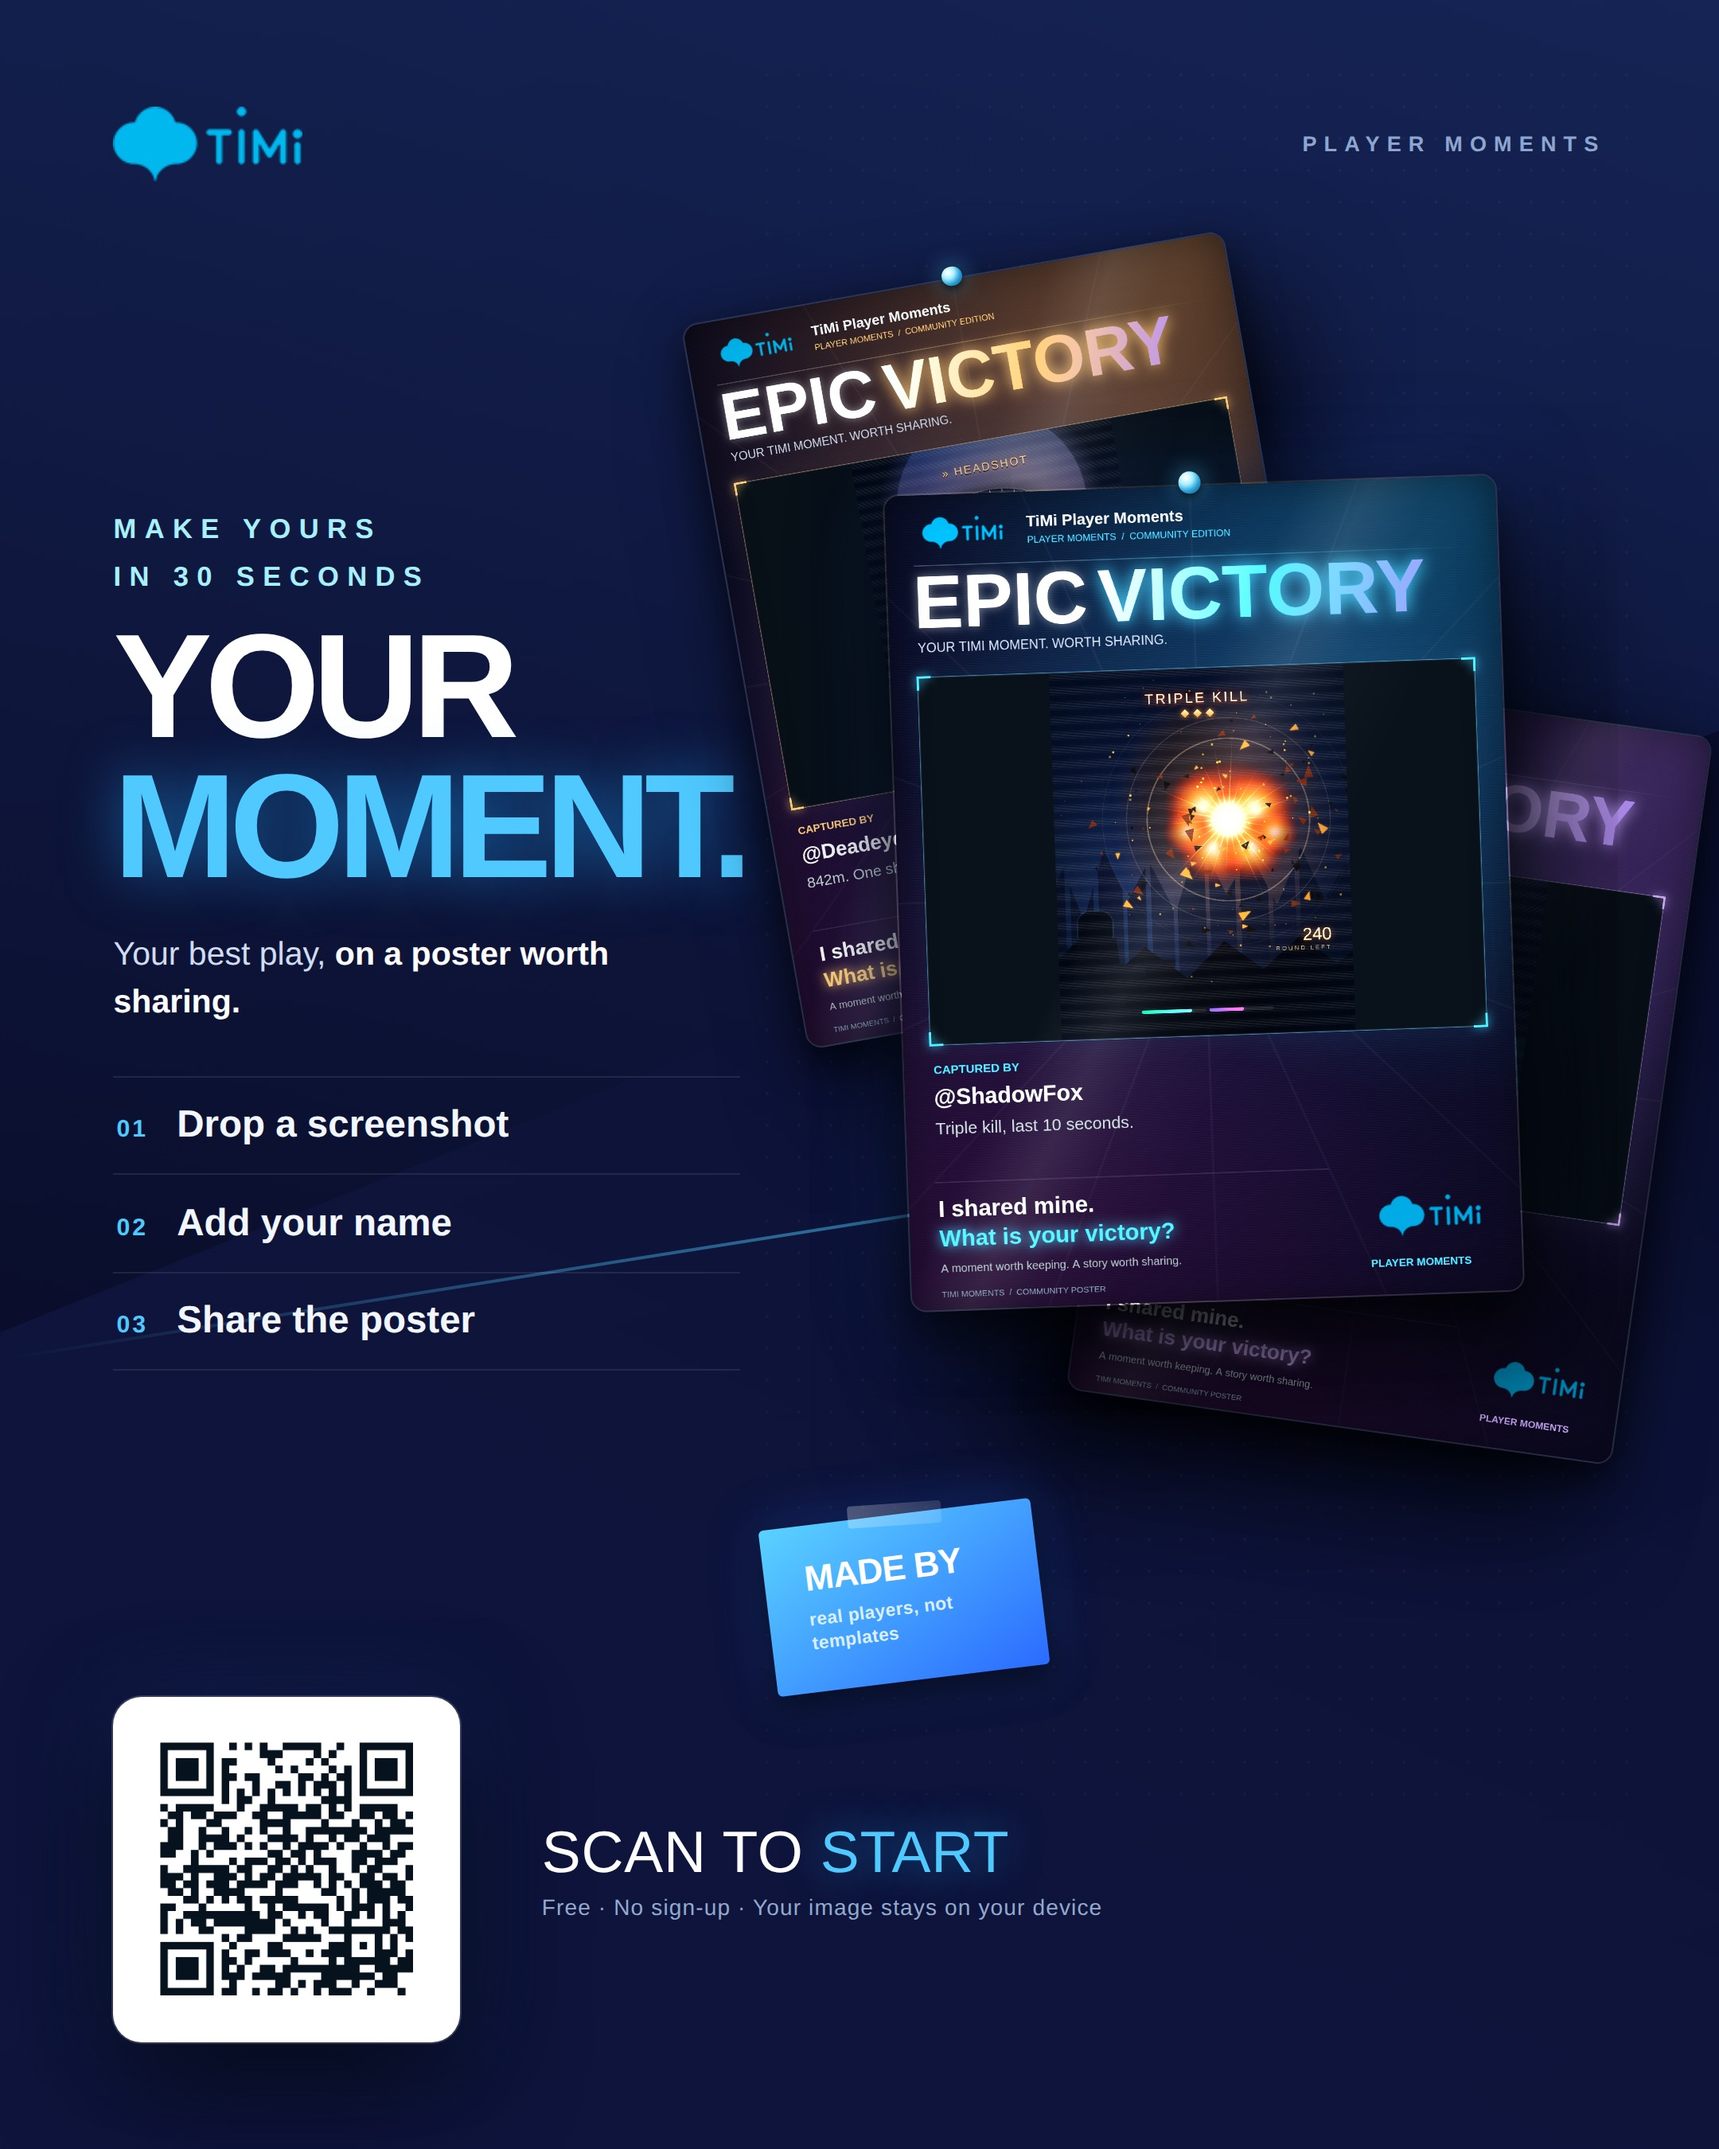
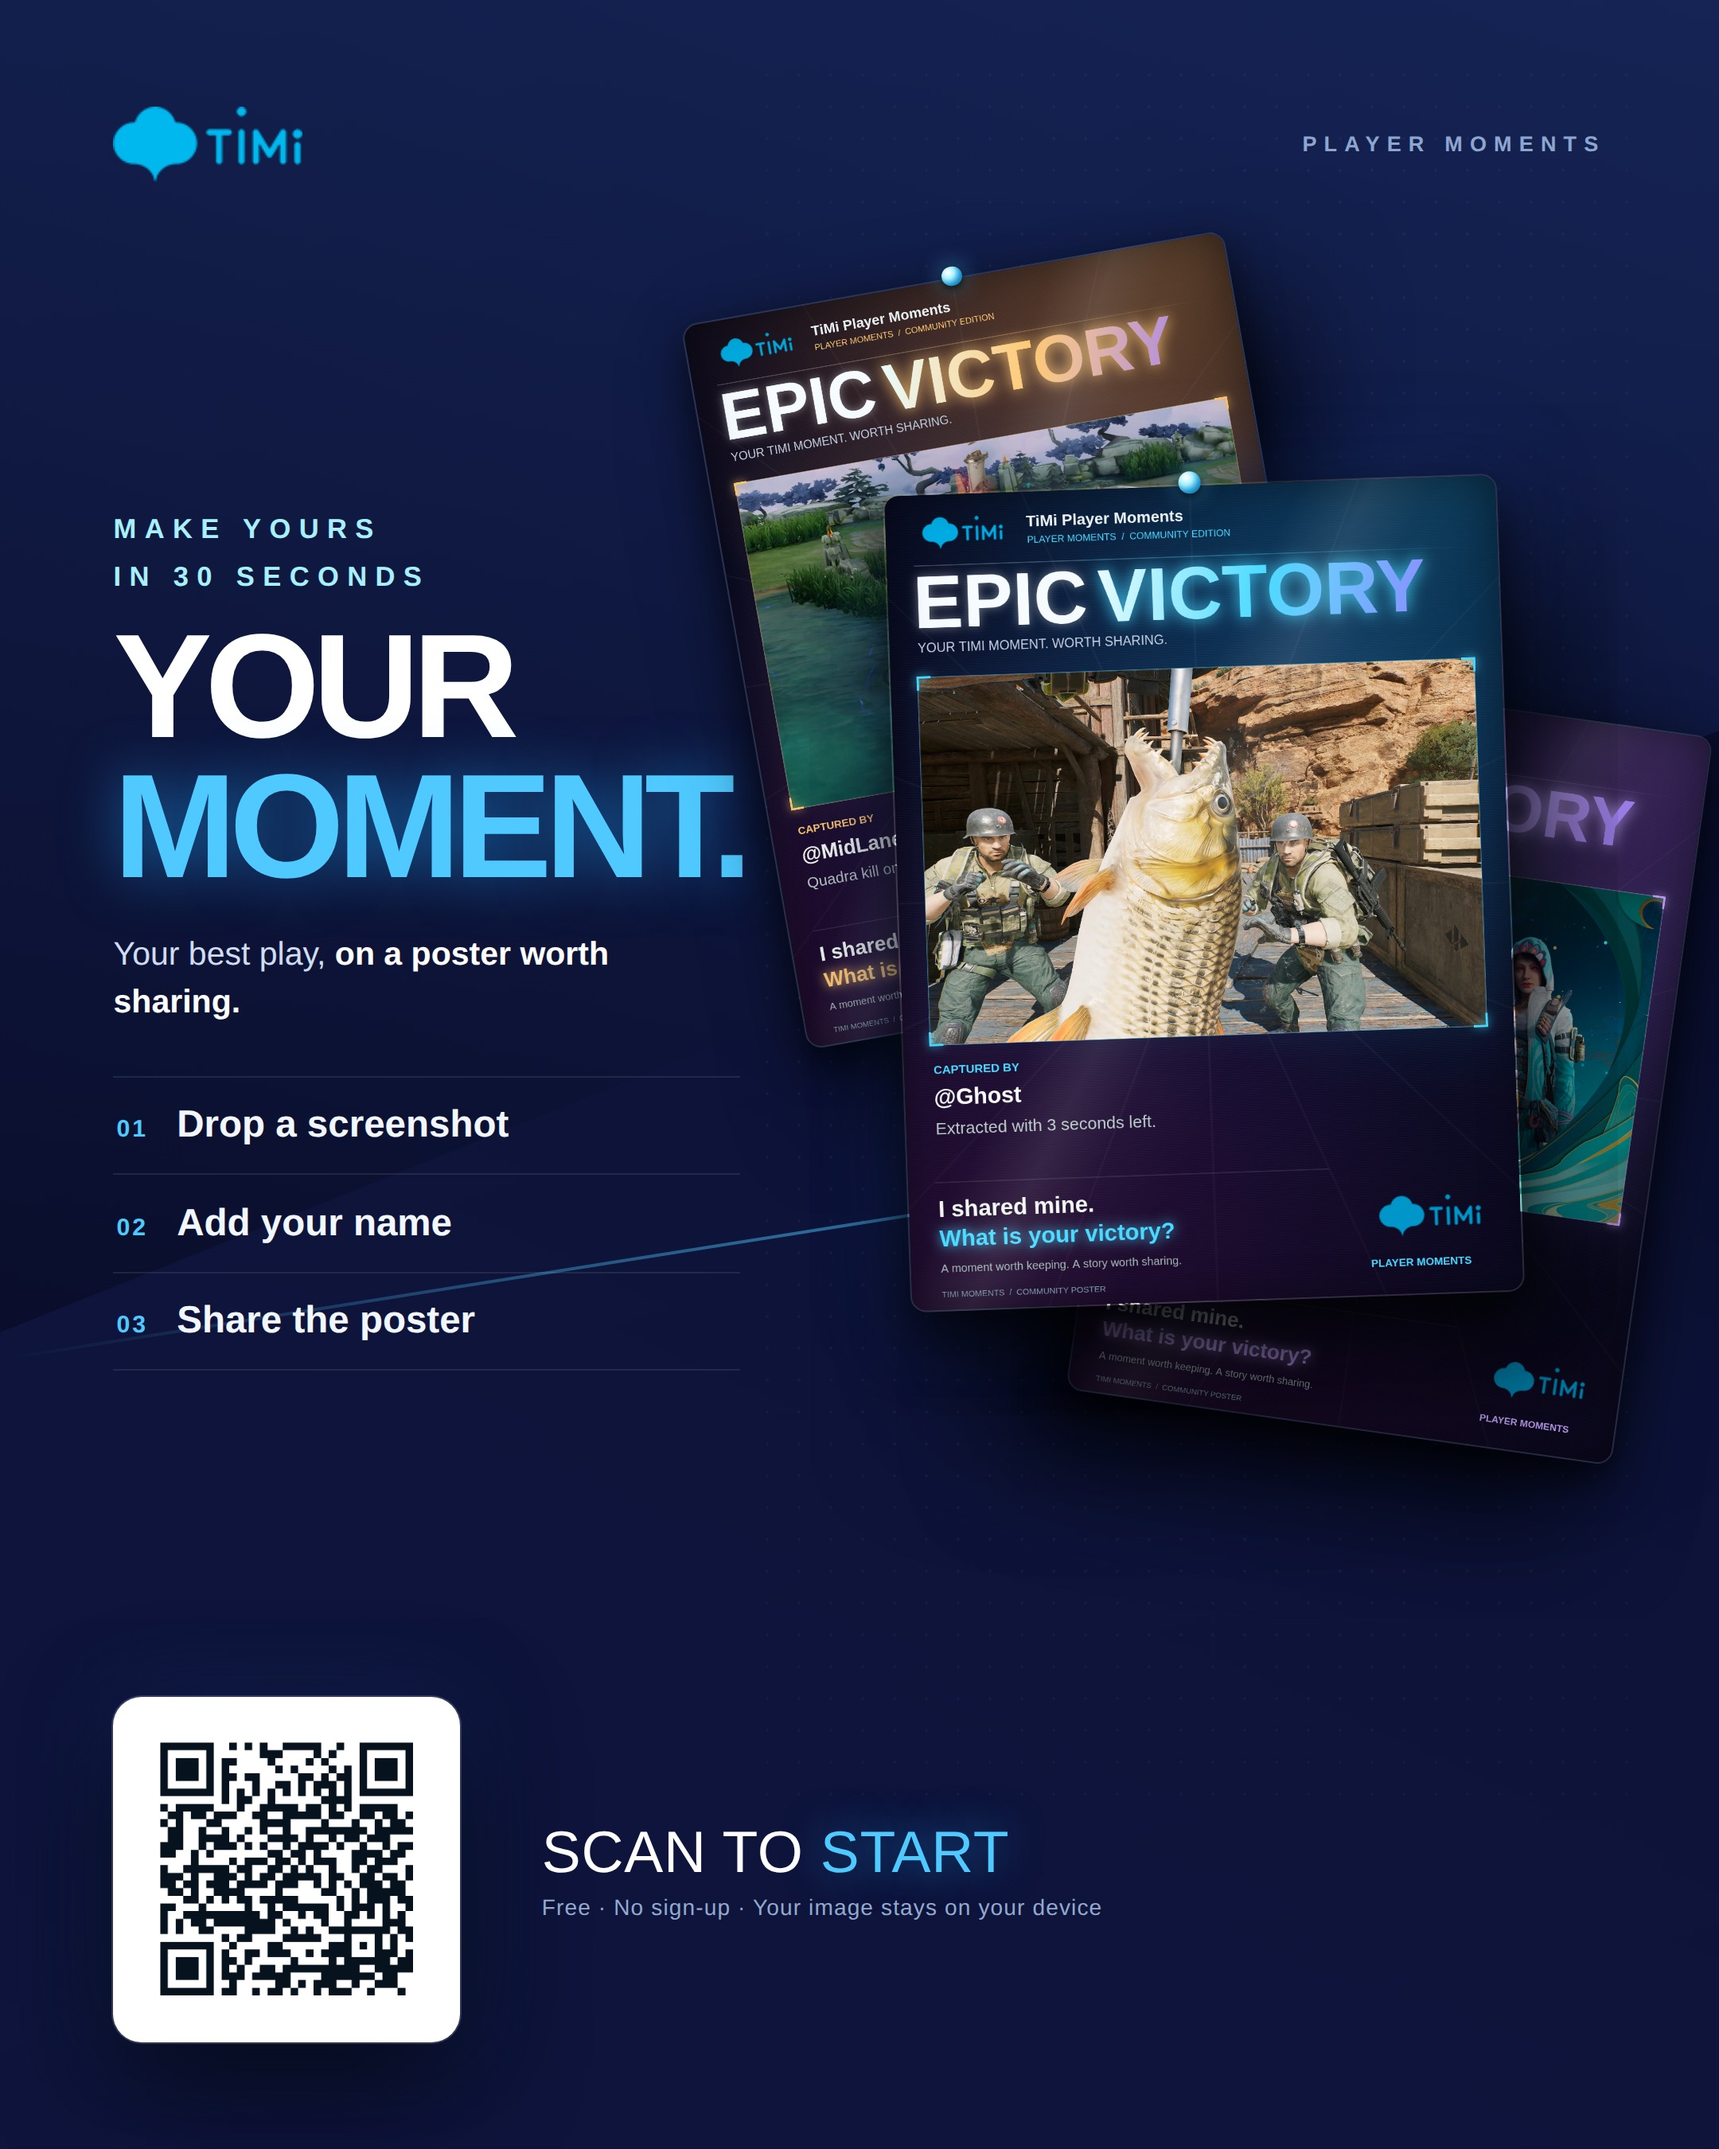
promo v12: real TiMi game footage (Delta Force / Honor of Kings / CODM), remove sticky note

Changed region(s): [[0.4032, 0.1867, 0.9616, 0.5911], [0.4343, 0.6844, 0.6204, 0.8089], [0.8065, 0.56, 0.8375, 0.5911]]

diff --git a/join/index.html b/join/index.html
@@ -169,9 +169,9 @@
       <h2>Made by players</h2>
       <p class="hint">Real posters from the community — swipe to see more</p>
       <div class="rail" id="rail">
-        <figure><img src="examples/small-example-sniper.jpg" alt="Player poster by Deadeye" /><figcaption><b>@Deadeye</b> · 842m, one shot</figcaption></figure>
-        <figure><img src="examples/small-example-assault.jpg" alt="Player poster by ShadowFox" /><figcaption><b>@ShadowFox</b> · triple kill, last 10s</figcaption></figure>
-        <figure><img src="examples/small-example-victory.jpg" alt="Player poster by NovaReign" /><figcaption><b>@NovaReign</b> · final round clutch</figcaption></figure>
+        <figure><img src="examples/small-example-hok.jpg" alt="Player poster" /><figcaption><b>@MidLane</b> · quadra kill on mid</figcaption></figure>
+        <figure><img src="examples/small-example-df.jpg" alt="Player poster" /><figcaption><b>@Ghost</b> · extracted with 3s left</figcaption></figure>
+        <figure><img src="examples/small-example-codm.jpg" alt="Player poster" /><figcaption><b>@Raven</b> · 1v4 clutch</figcaption></figure>
       </div>
     </section>
 
